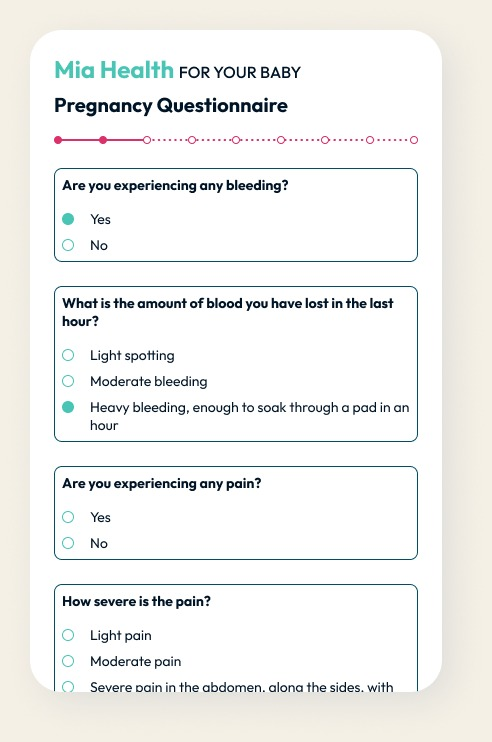
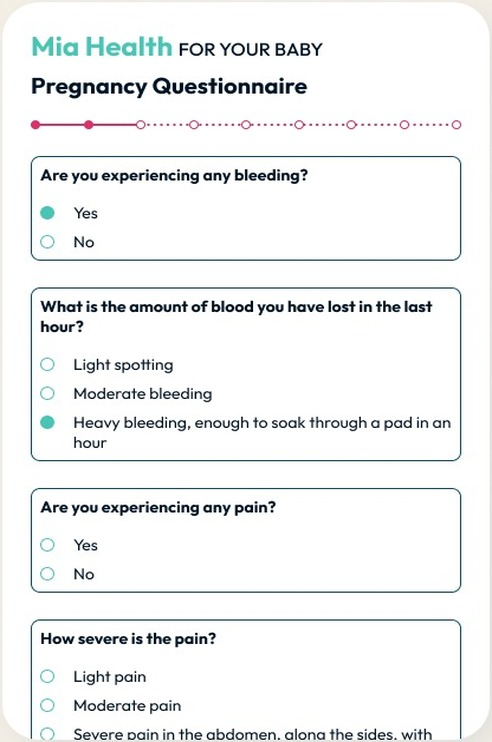
Crop the remaining cream border from image1/3/4 (menopause/pregnancy/high-risk)
My previous crop bounds were too generous on the right and bottom —
the source files had an asymmetric drop-shadow margin (~30px on
left/top, but the phone content actually ended around x=442/y=947 in
the 492x997 canvas, leaving ~20px of untouched cream on those two
sides). Re-measured against the pre-crop originals and cropped tightly
to the true content edges (28,28)-(444,949) for the two 492x997
homepage images, then rescaled back to the original canvas size so
nothing else on the page shifts.

Also applied the same fix to mia-high-risk-checkin.jpg (image4),
which had an identical baked-in margin (28,28)-(444,694) at its
492x742 size, per the same request.

diff --git a/css/style.css b/css/style.css
@@ -838,7 +838,7 @@ section.page-section {
   display: grid;
   grid-template-columns: minmax(200px, 340px) minmax(140px, 240px) 1fr;
   align-items: start;
-  column-gap: 40px;
+  column-gap: 10px;
   row-gap: 24px;
   margin-top: 48px;
 }
@@ -861,8 +861,6 @@ section.page-section {
   grid-row: 2;
   display: flex;
   flex-direction: column;
-  margin-top: -74px; /* row1's auto height ends up taller than text1 alone needs, since image1 spans into it too — this pulls image2 back up flush against that spillover */
-  margin-left: -16px; /* nudges image2 a bit closer to image1 */
 }
 
 .mia-scenario-col1 .case-image,
